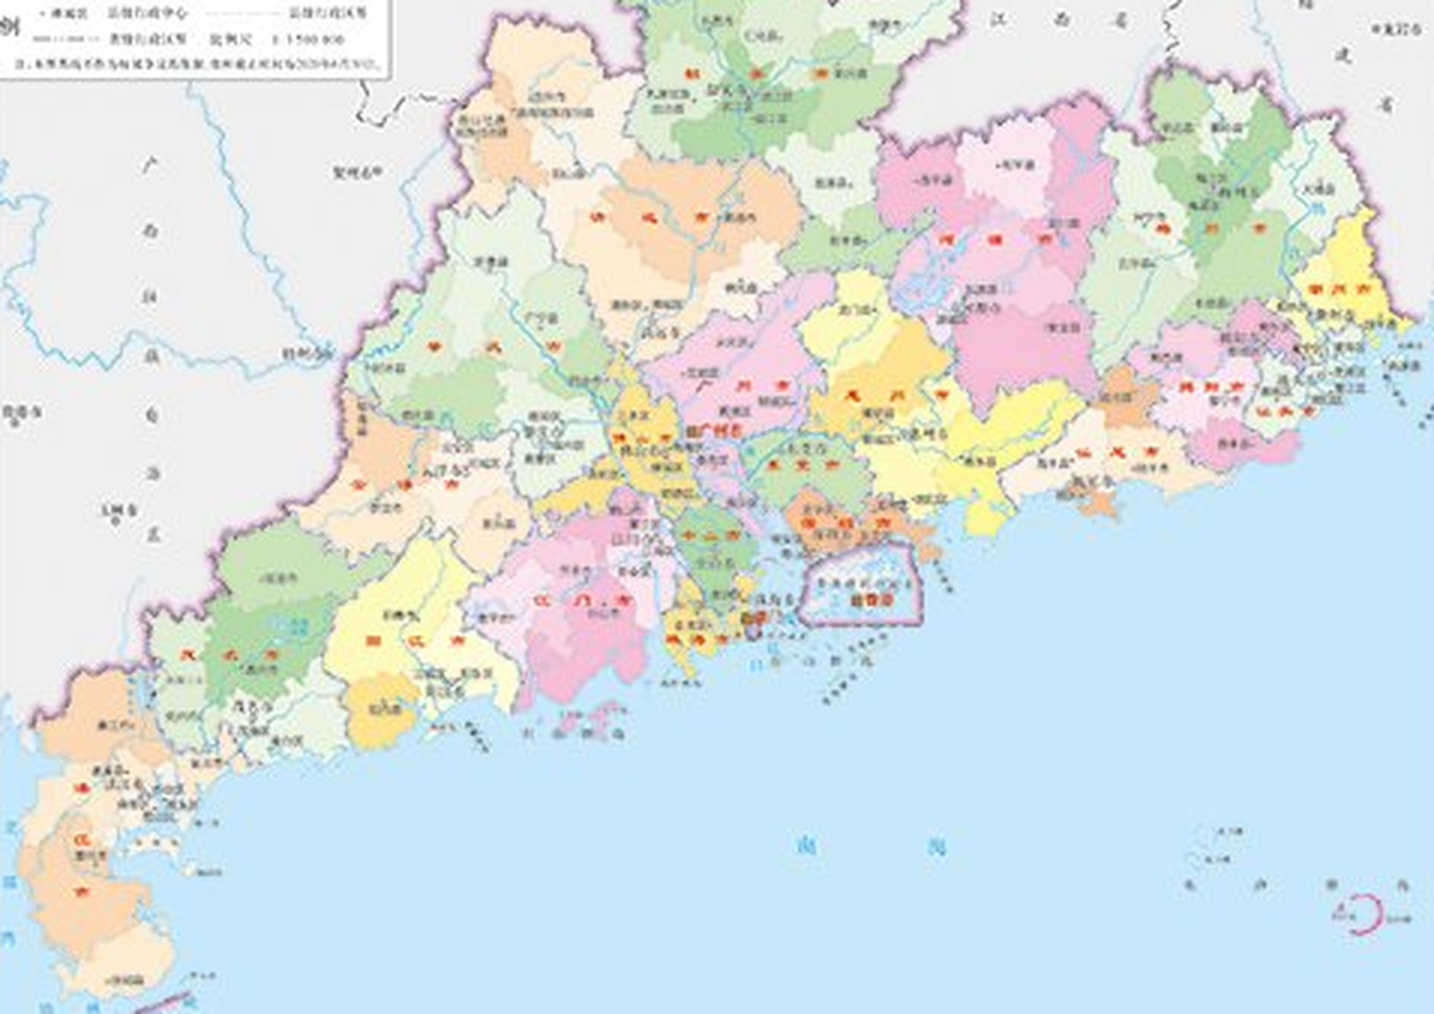
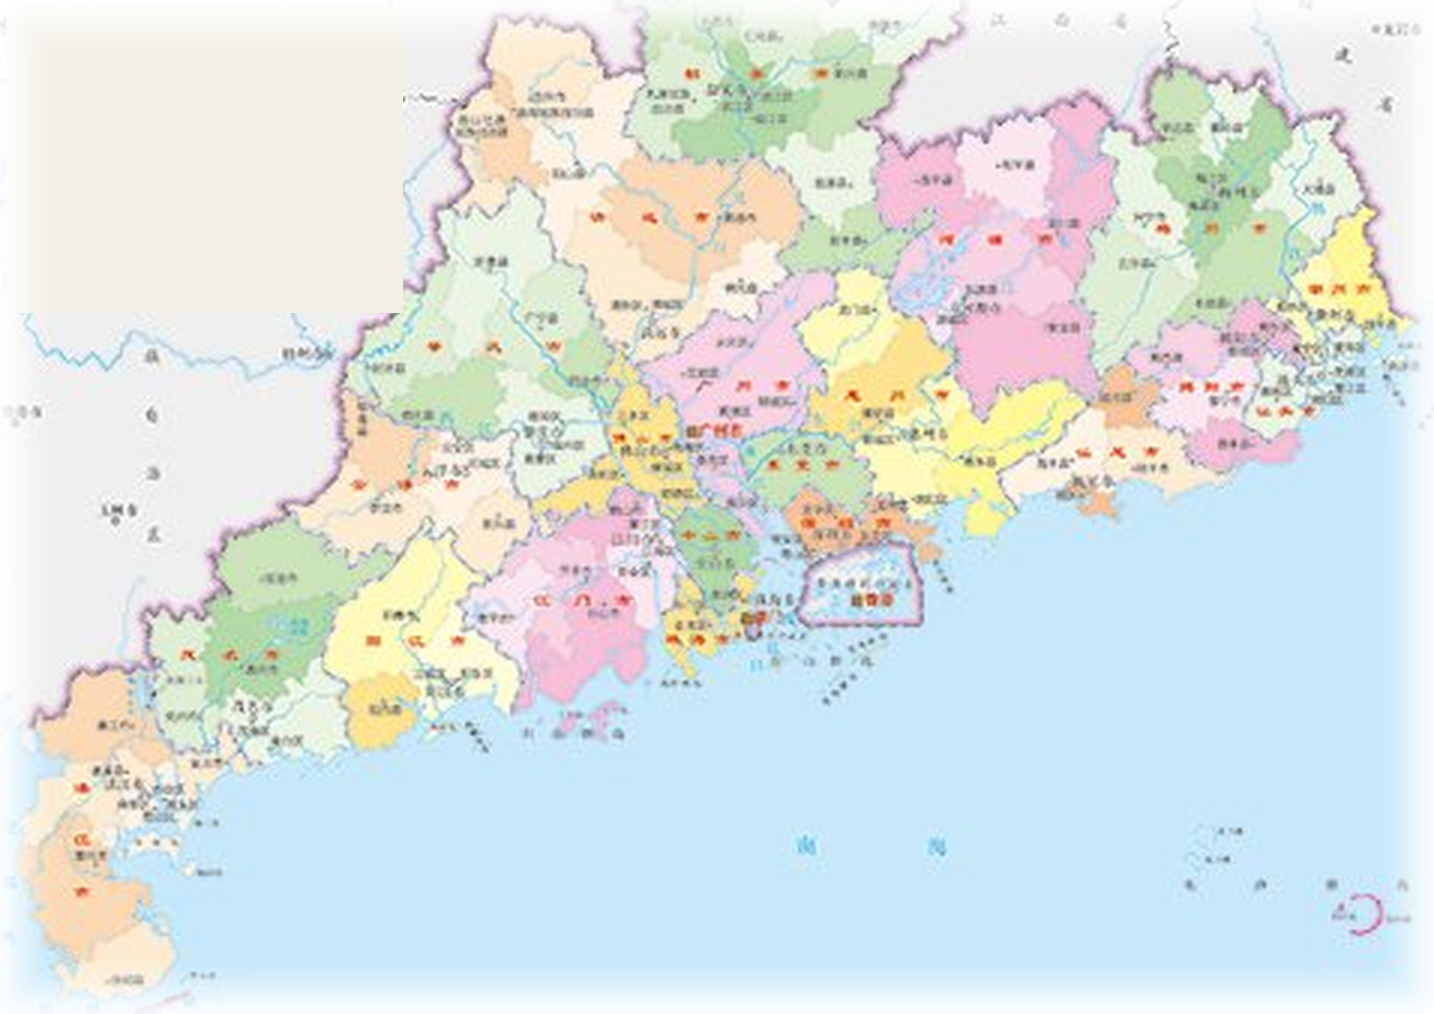
feat: 标准地图底图去图例残留 + 边缘羽化 + 版权标注补审图号

diff --git a/assets/app.js b/assets/app.js
@@ -2010,7 +2010,7 @@
         projection: { type: 'globe' },
         sources: {
           sat:  { type: 'raster', tiles: AMAP_SAT, tileSize: 256, maxzoom: 18,
-                  attribution: '底图 © 高德地图 | 界线 © DataV.GeoAtlas' },
+                  attribution: '底图 © 高德地图 | 标准地图 粤S(2023)049号 | 界线 © DataV.GeoAtlas' },
           vec:  { type: 'raster', tiles: AMAP_STREET, tileSize: 256, maxzoom: 18 },
           /* 广东省标准地图（粤S(2023)049号）按经纬度配准后贴到地图上 */
           gdstd: { type: 'image', url: './data/gd-standard.png',
